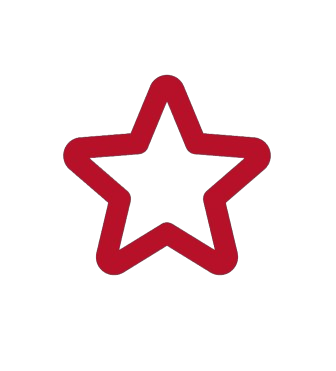
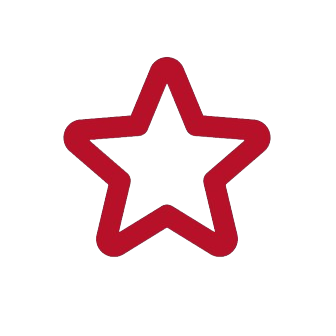
aaa

diff --git a/src/Components/Playlists.js b/src/Components/Playlists.js
@@ -1,4 +1,5 @@
 import React from 'react'
+import { useState } from 'react';
 
 
 import Footer from './Footer'
@@ -24,7 +25,8 @@ import Banner from '../images/banner.png'
 import Play from '../images/play.png'
 import Random from '../icones/random.png'
 import Edit from '../icones/edit.png'
-import Save from '../icones/save.png'
+import SaveAfter from '../icones/save.png'
+import SaveBefor from '../icones/estrela.png'
 import Share from '../icones/share.png'
 
 const PlaylisInfos = [
@@ -41,6 +43,20 @@ const PlaylistSongs =[
   {id: 7, cover: Capa6, name: 'De 10 Mulher 11 é Maluca', author: 'Mc Saci', durantion: '1:47', song: mp3_6},
   {id: 8, cover: Capa7, name: 'Fogo Fátuo', author: 'Lupe De Lupe', durantion: '3:53', song: mp3_7},
 ]
+
+const ImageSwap = () => {
+  const [image, setImage] = useState(SaveBefor);
+
+  const handleClick = () => {
+    setImage(image === SaveBefor ? SaveAfter : SaveBefor);
+  };
+
+  return (
+    <div>
+      <img src={image} alt="Swap Image" onClick={handleClick}  className='saveButton'/>
+    </div>
+  );
+}
 
 const Playlists = () => {
   return (
@@ -82,7 +98,9 @@ const Playlists = () => {
               <li className='time'><p>{Song.durantion}</p></li>
 
               <li className='buttons'>
-                <img src={Save} className='saveButton'/>
+
+                <ImageSwap />
+
                 <img src={Share} className='shareButton'/>
               </li>
 

diff --git a/src/Components/Playlists.css b/src/Components/Playlists.css
@@ -81,8 +81,8 @@ h1 {
 }
 
 .saveButton, .shareButton {
-    width: 20px;
-    height: 20px;
+    width: 30px;
+    height: 30px;
 }
 
 .Song {
